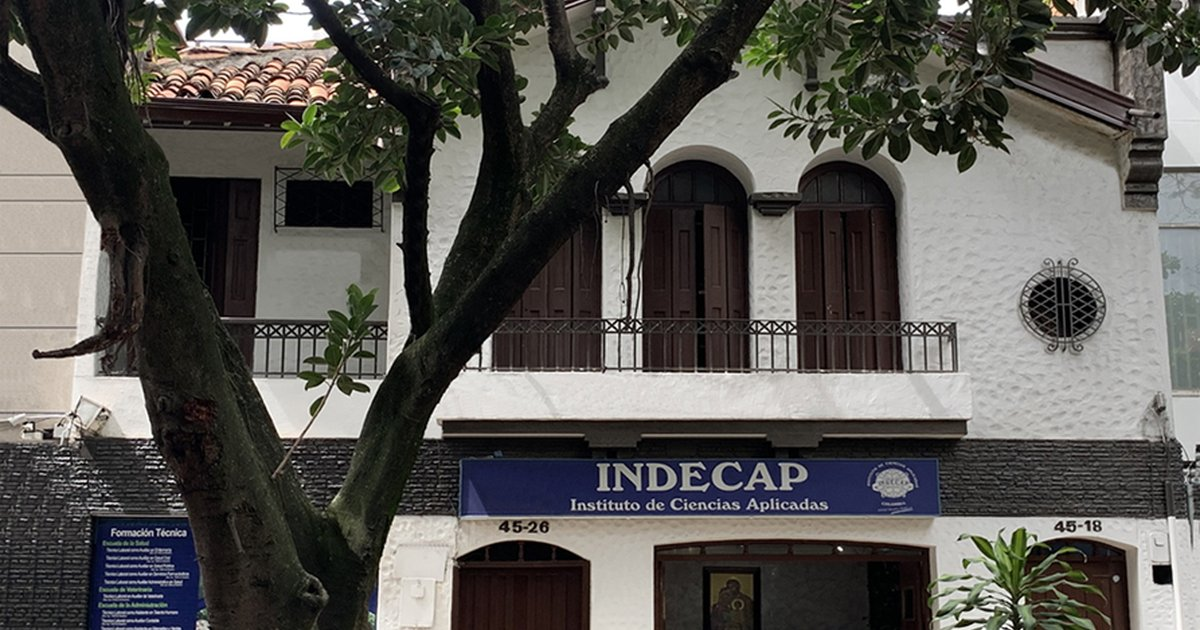
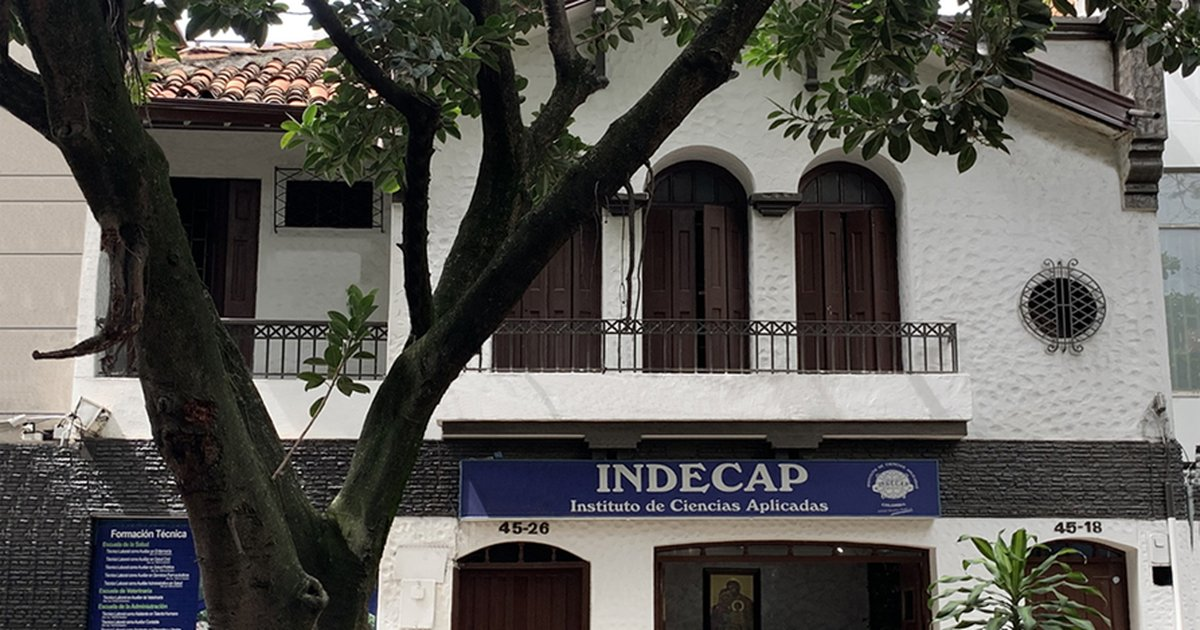
fix: OG images URL absoluta y medellin.jpg optimizada

diff --git a/src/app/sedes/envigado/page.tsx b/src/app/sedes/envigado/page.tsx
@@ -6,7 +6,7 @@ export const metadata: Metadata = {
   title: "Sede Envigado | INDECAP – Cerca al Parque Principal de Envigado",
   description: "INDECAP Sede Envigado. Cl 37 Sur #43A-84, cerca al parque principal. 1.446 m², 8 aulas, sala de cómputo. Programas técnicos y bachillerato privado.",
   openGraph: {
-    images: [{ url: "/images/sedes/og-sede-envigado.jpg", width: 1200, height: 630 }],
+    images: [{ url: "https://indecap.edu.co/images/sedes/og-sede-envigado.jpg", width: 1200, height: 630 }],
   },
 };
 

diff --git a/src/app/sedes/medellin/page.tsx b/src/app/sedes/medellin/page.tsx
@@ -6,7 +6,7 @@ export const metadata: Metadata = {
   title: "Sede Medellín | INDECAP – Calle 56 cerca al Metro Prado",
   description: "INDECAP Sede Medellín. Calle 56 N° 45-26, a una cuadra del Metro Prado. 1.500 m², 5 pisos, 20 aulas. Programas técnicos y bachillerato semipresencial.",
   openGraph: {
-    images: [{ url: "/images/sedes/og-sede-medellin.jpg", width: 1200, height: 630 }],
+    images: [{ url: "https://indecap.edu.co/images/sedes/og-sede-medellin.jpg", width: 1200, height: 630 }],
   },
 };
 

diff --git a/src/app/sedes/caldas/page.tsx b/src/app/sedes/caldas/page.tsx
@@ -6,7 +6,7 @@ export const metadata: Metadata = {
   title: "Sede Caldas | INDECAP – Cerca al Parque Principal de Caldas",
   description: "INDECAP Sede Caldas. Calle 130 sur N° 51-65. 10 aulas, laboratorio de química y física, biblioteca. 420+ egresados. Programas técnicos y bachillerato.",
   openGraph: {
-    images: [{ url: "/images/sedes/og-sede-caldas.jpg", width: 1200, height: 630 }],
+    images: [{ url: "https://indecap.edu.co/images/sedes/og-sede-caldas.jpg", width: 1200, height: 630 }],
   },
 };
 
